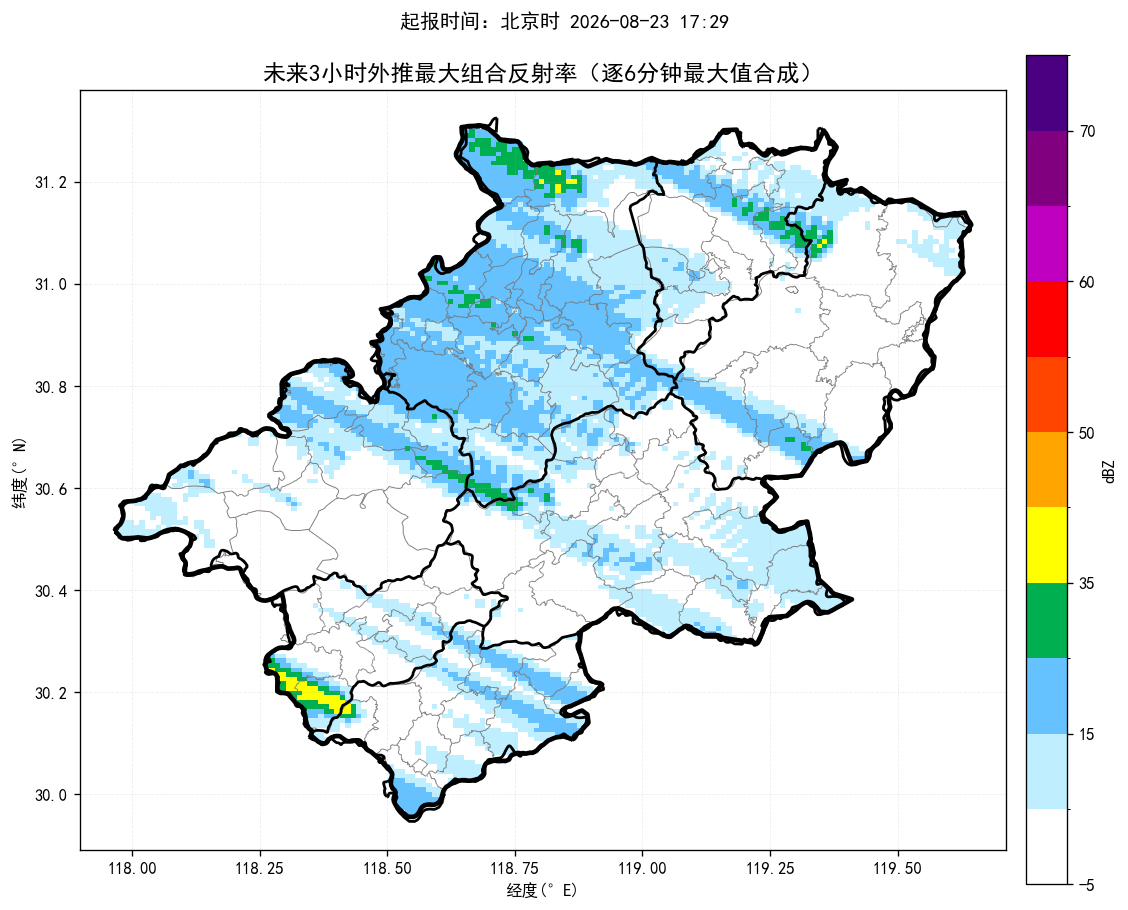
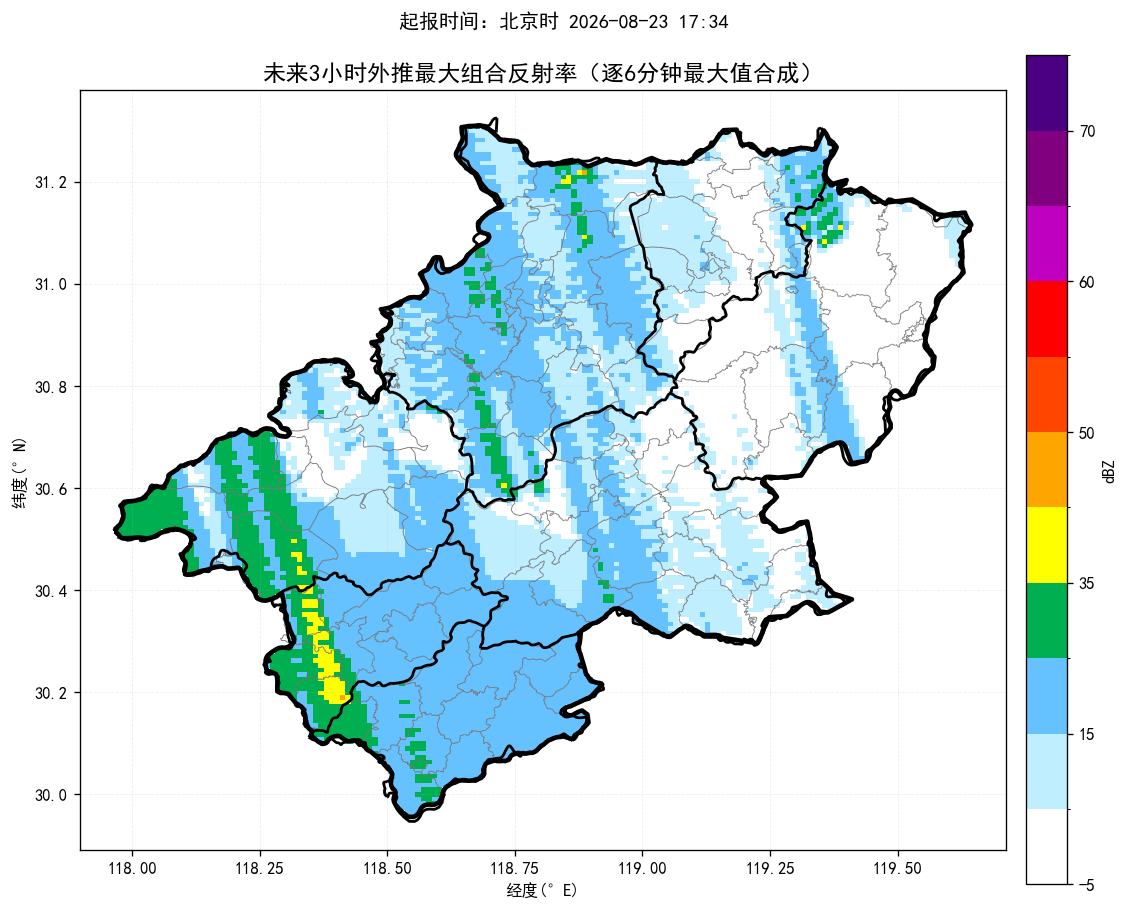
update nowcast products

Changed region(s): [[0.0931, 0.1231, 0.7757, 0.8923], [0.3413, 0.0, 0.6516, 0.0308], [0.8067, 0.2154, 0.8688, 0.3077]]

diff --git a/index.html b/index.html
@@ -14,14 +14,14 @@ img.product{display:block;width:100%;height:auto;margin:10px auto 26px;border:1p
 .footer{font-size:13px;color:#777;text-align:center;margin-top:30px}
 @media(max-width:700px){.sheet{margin:0;padding:18px 15px}.alert-title{font-size:22px}.county-line{font-size:17px}.prob{font-size:18px}}
 </style></head><body><main class="sheet">
-<div class="time">起报时间：北京时 2026-08-23 17:29</div>
+<div class="time">起报时间：北京时 2026-08-23 17:34</div>
 <div class="alert-title">未来一小时降水量超过 20 毫米的乡镇：</div><div class="county-line">无</div>
 <div class="alert-title">未来三小时降水量超过 50 毫米的乡镇：</div><div class="county-line">无</div>
 <div class="alert-title">未来三小时雷暴大风（组合反射率 > 55 dBZ）的乡镇：</div><div class="county-line">无</div>
-<div class="prob">最大降水量概率预估：宣城市范围内未来三小时降水偏小，最大预报约3.6毫米，暂不进行50/80/100毫米概率预估。</div>
-<div class="section-title">未来降水预报图：</div><img class="product auto-refresh-product" data-src="短临降水预报.png" src="短临降水预报.png?v=20260823173450" alt="未来降水预报图">
-<div class="section-title">未来三小时组合反射率图：</div><img class="product auto-refresh-product" data-src="未来3小时组合反射率.png" src="未来3小时组合反射率.png?v=20260823173450" alt="未来三小时组合反射率图">
-<div class="section-title">未来三小时雷暴大风图：</div><img class="product auto-refresh-product" data-src="未来3小时雷暴大风.png" src="未来3小时雷暴大风.png?v=20260823173450" alt="未来三小时雷暴大风图">
+<div class="prob">最大降水量概率预估：宣城市范围内未来三小时降水偏小，最大预报约4.8毫米，暂不进行50/80/100毫米概率预估。</div>
+<div class="section-title">未来降水预报图：</div><img class="product auto-refresh-product" data-src="短临降水预报.png" src="短临降水预报.png?v=20260823174030" alt="未来降水预报图">
+<div class="section-title">未来三小时组合反射率图：</div><img class="product auto-refresh-product" data-src="未来3小时组合反射率.png" src="未来3小时组合反射率.png?v=20260823174030" alt="未来三小时组合反射率图">
+<div class="section-title">未来三小时雷暴大风图：</div><img class="product auto-refresh-product" data-src="未来3小时雷暴大风.png" src="未来3小时雷暴大风.png?v=20260823174030" alt="未来三小时雷暴大风图">
 <div class="footer">三张产品图每 60 秒自动刷新一次；每次请求自动附加新的URL参数以绕过缓存。</div>
 <script>
 (function() {
